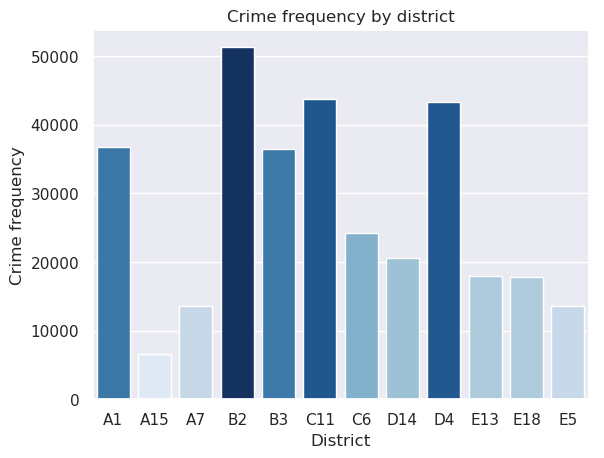
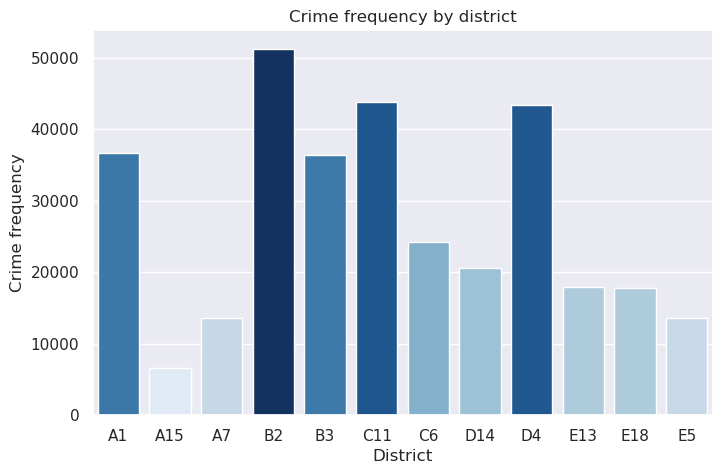
Complete question 4

diff --git a/main.py b/main.py
@@ -8,15 +8,11 @@ images_path = './stat_images/'
 # read data and store them in a dataframe
 df = pd.read_csv(dataset_path, engine='python')
 print(df.head(10))
-print(df.dtypes)
-print(df.columns.values)
-print(df.shape)
 
 # choose only useful columns
-df = df[['INCIDENT_NUMBER', 'DISTRICT', 'SHOOTING', 'YEAR',
-         'MONTH', 'DAY_OF_WEEK', 'HOUR', 'Lat', 'Long', 'Location']]
+df = df[['INCIDENT_NUMBER', 'OFFENSE_CODE_GROUP', 'DISTRICT', 'SHOOTING',
+         'YEAR', 'MONTH', 'DAY_OF_WEEK', 'HOUR', 'Lat', 'Long', 'Location']]
 
-print(df.shape)
 # calculate the % of null values on each column
 print(df.isnull().sum() / df.shape[0])
 
@@ -30,6 +26,7 @@ year_group = df.groupby(['YEAR'])['INCIDENT_NUMBER'].count()
 month_group = df.groupby(['MONTH'])['INCIDENT_NUMBER'].count()
 day_group = df.groupby(['DAY_OF_WEEK'])['INCIDENT_NUMBER'].count()
 distr_group = df.groupby(['DISTRICT'])['INCIDENT_NUMBER'].count()
+hour_group = df.groupby(['HOUR'])['INCIDENT_NUMBER'].count()
 
 # change order of rows (based on week days order)
 day_group = day_group.reindex(
@@ -37,6 +34,8 @@ day_group = day_group.reindex(
 print(day_group)
 
 # make plots
+make_plot(hour_group, 'Hour', 'Crime frequency',
+          'Crime frequency by hour', images_path, 'hour.png')
 make_plot(year_group, 'Year', 'Crime frequency',
           'Crime frequency by year', images_path, 'year.png')
 make_plot(month_group, 'Month', 'Crime frequency',
@@ -57,3 +56,22 @@ shootings_distr_group = df.loc[df['SHOOTING'] == 'Y'].groupby(
     ['DISTRICT'])['INCIDENT_NUMBER'].count()
 print(shootings_distr_group)
 print('District with most shootings: ', shootings_distr_group.idxmax())
+
+# add new series ('LIGHT) to dataframe that show if incident occured during the day or during the night
+l = []
+for i, val in df['HOUR'].head(100).iteritems():
+    # if hour is between 6pm (18) and 6am (0) it's night, else it's day
+    if (val >= 18) or (val <= 6):
+        l.append('night')
+    else:
+        l.append('day')
+
+new_ser = pd.Series(l)
+df['LIGHT'] = new_ser
+print(df.head(20))
+
+# find most frequent type of crime during the day
+light_group = df.loc[df['LIGHT'] == 'day'].groupby(
+    ['OFFENSE_CODE_GROUP'])['INCIDENT_NUMBER'].count()
+print(light_group)
+print('Most frequent type of crime during the day is', light_group.idxmax())

diff --git a/plot_data.py b/plot_data.py
@@ -8,8 +8,8 @@ def make_plot(ser, xlabel, ylabel, title, path, image_name):
 
     norm = plt.Normalize(0, ser.values.max())
     colors = plt.cm.Blues(norm(ser.values))
-    ax = sns.barplot(ser.index,
-                     ser.values, palette=colors)
+    plt.figure(figsize=(8, 5))
+    ax = sns.barplot(ser.index, ser.values, palette=colors)
     ax.set(ylabel=ylabel, xlabel=xlabel)
     plt.title(title)
     # save plot to an image
